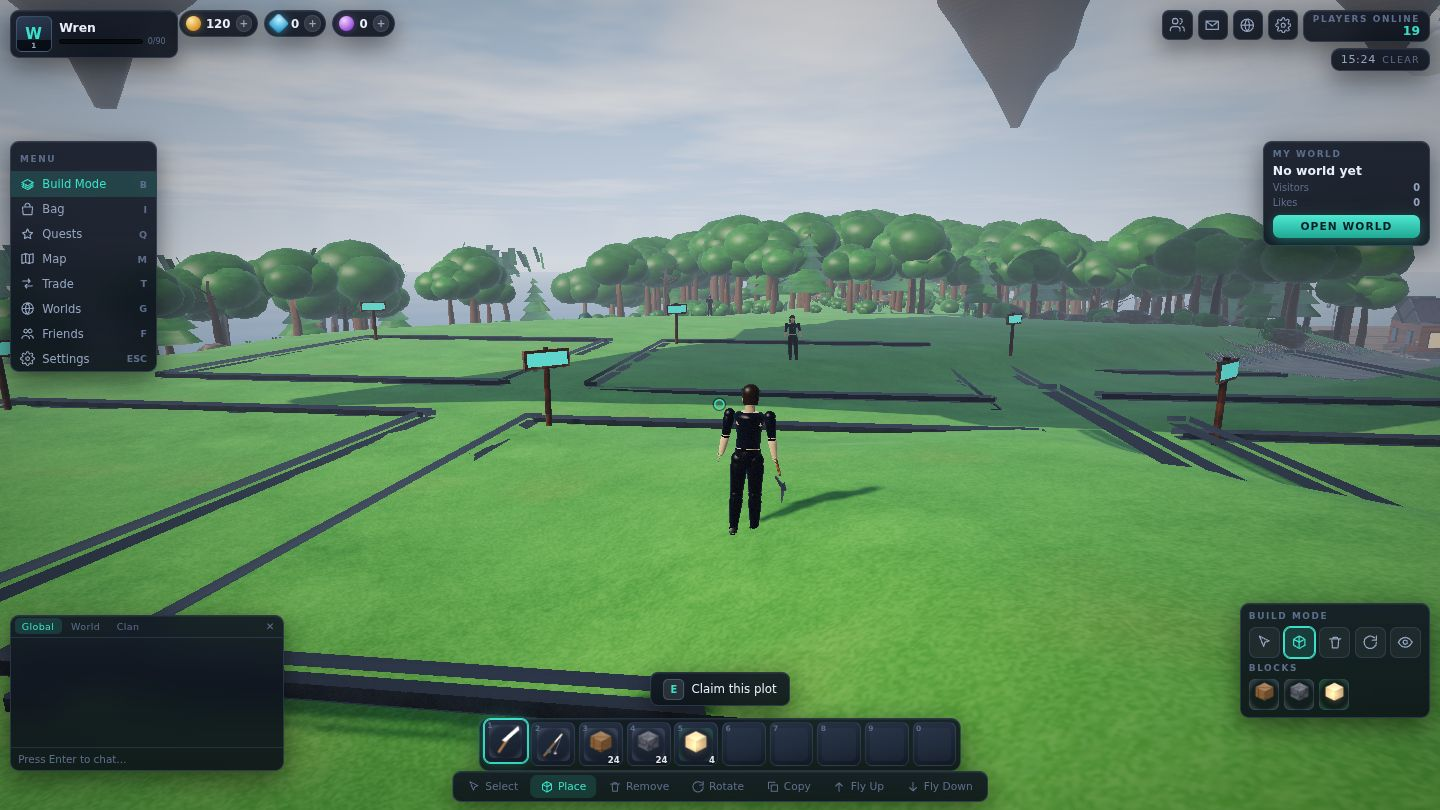
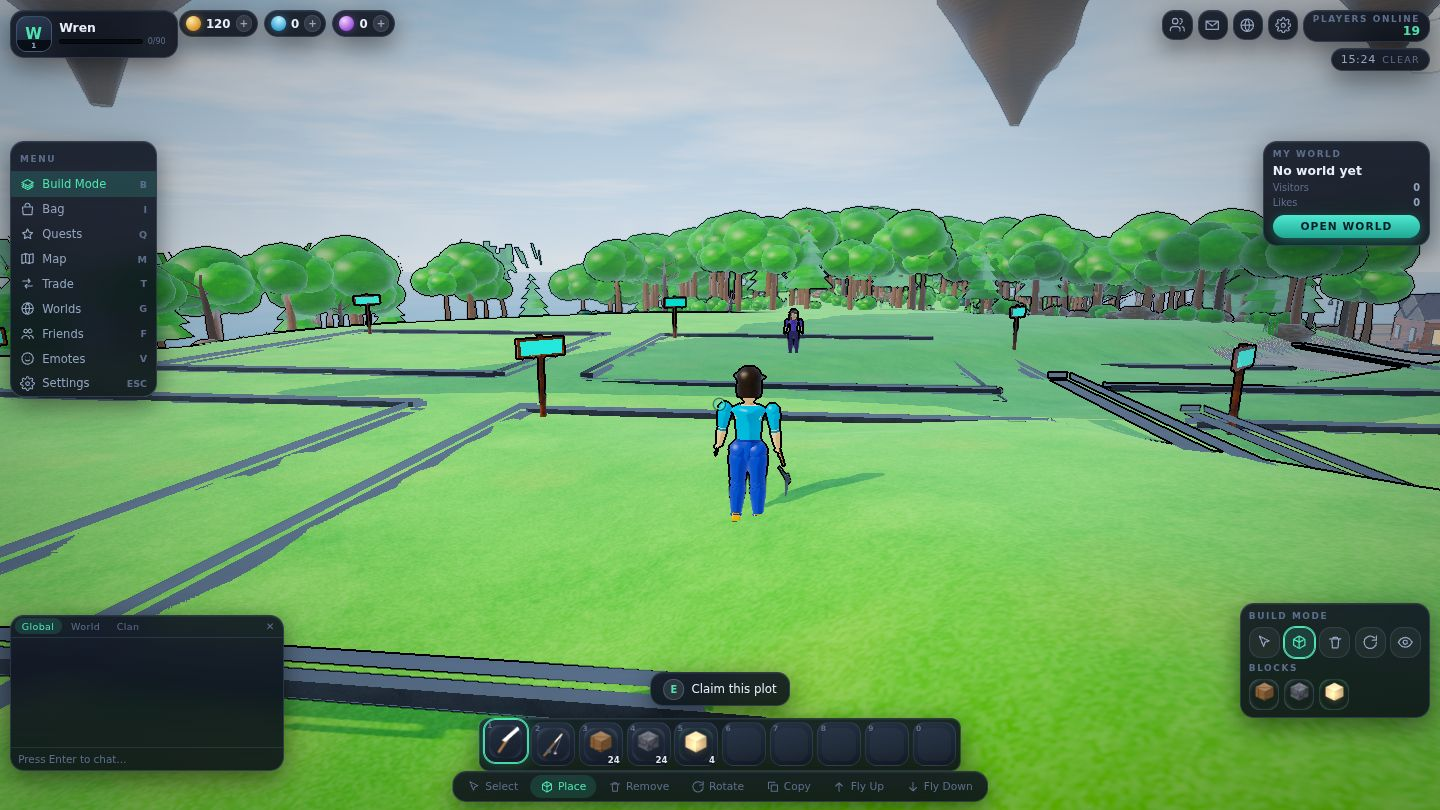
Reshoot the site for the cartoon look, and document it
Every screenshot on the landing page is recaptured from the current
build, plus a new one of the emote wheel. The page picks up the game's
own rounded typefaces and warmer accents so the two do not read as
different products, and the "0 downloaded assets" stat is now "0 mesh
or texture files" — two fonts arrive over the network and the page
should not claim otherwise.

The README gains a section on the art direction: what each of the three
dials does, why proportions live in one table, and why no mesh pack was
pulled in. Mixing bought low-poly models into a world where every
vertex is generated at load is the fastest way to make a game look like
an asset flip; the loader and the file size would both be real costs
for a worse-looking result.

Also: the emote wheel's hub carries its own radial backing, because it
sits directly over whoever is standing in the middle of it.

diff --git a/site/index.html b/site/index.html
@@ -7,7 +7,7 @@
 <meta name="description" content="A 3D social sandbox MMO. Claim an island, build what you like, and let people in.">
 <link rel="preconnect" href="https://fonts.googleapis.com">
 <link rel="preconnect" href="https://fonts.gstatic.com" crossorigin>
-<link href="https://fonts.googleapis.com/css2?family=Chakra+Petch:wght@400;500;600;700&family=Rajdhani:wght@500;600;700&display=swap" rel="stylesheet">
+<link href="https://fonts.googleapis.com/css2?family=Fredoka:wght@400;500;600;700&family=Nunito:wght@400;600;700;800&display=swap" rel="stylesheet">
 <style>
 :root{
   --bg:#080B12;
@@ -19,12 +19,12 @@
   --ink:#E8EFFA;
   --ink2:#93A4C0;
   --ink3:#5D6E8C;
-  --acc:#3BE0C8;
-  --acc2:#159C89;
-  --gold:#F5C451;
+  --acc:#4FE3B0;
+  --acc2:#17A886;
+  --gold:#FFC94D;
   --violet:#7C6BFF;
-  --ui:'Chakra Petch','Segoe UI',system-ui,sans-serif;
-  --disp:'Rajdhani','Chakra Petch',system-ui,sans-serif;
+  --ui:'Nunito','Segoe UI',system-ui,sans-serif;
+  --disp:'Fredoka','Nunito','Segoe UI',system-ui,sans-serif;
   --maxw:1180px;
 }
 *{box-sizing:border-box}
@@ -260,13 +260,13 @@ footer .wrap{display:flex;flex-wrap:wrap;gap:18px;align-items:center;justify-con
       <a class="cta" href="../game/lumen-harbor.html">Play in your browser</a>
       <a class="cta ghost" href="#world">See the world</a>
     </div>
-    <p class="note">Runs in any WebGL2 browser. One file, no install, no download.</p>
+    <p class="note">Runs in any WebGL2 browser. One file, no install, nothing downloaded but two fonts.</p>
 
     <div class="stats">
       <div><b>352 m</b><span>Island, nine districts</span></div>
-      <div><b>17</b><span>Animation clips</span></div>
+      <div><b>20</b><span>Animation clips</span></div>
       <div><b>31</b><span>Procedural materials</span></div>
-      <div><b>0</b><span>Downloaded assets</span></div>
+      <div><b>0</b><span>Mesh or texture files</span></div>
     </div>
   </div>
 </div>
@@ -309,6 +309,15 @@ footer .wrap{display:flex;flex-wrap:wrap;gap:18px;align-items:center;justify-con
           <h3>A day that actually turns</h3>
           <p>One clock drives the sun, the sky, the fog and the lamps. Street
              lights fade up as the sun drops, and shop signs light the pavement.</p>
+        </div>
+      </div>
+      <div class="card">
+        <div class="pic" style="background-image:url('shots/emotes.jpg')"></div>
+        <div class="body">
+          <span class="tag">Say something</span>
+          <h3>Seven ways to answer</h3>
+          <p>Wave, dance, laugh, cheer, clap, point, sit. On <b>V</b>, on the
+             number row, and gone the moment you walk.</p>
         </div>
       </div>
     </div>
@@ -391,8 +400,8 @@ footer .wrap{display:flex;flex-wrap:wrap;gap:18px;align-items:center;justify-con
       <p>Not a roadmap. These are the systems running in the file you can open.</p>
     </div>
     <div class="systems">
-      <div><h5>Renderer</h5><p>WebGL2 from scratch: shadow pass, analytic sky, height fog, water, bloom, sun shafts, sixteen point lights per frame.</p></div>
-      <div><h5>Characters</h5><p>Nineteen bones, seventeen clips written as functions of phase, crossfaded by a priority state machine.</p></div>
+      <div><h5>Renderer</h5><p>WebGL2 from scratch: banded toon light, silhouette ink off a depth pass, analytic sky, water, bloom, sun shafts, sixteen point lights a frame.</p></div>
+      <div><h5>Characters</h5><p>Nineteen bones and twenty clips written as functions of phase, crossfaded by a priority state machine. One table sets the proportions for bones, meshes and clothes at once.</p></div>
       <div><h5>Authority</h5><p>Every economic action goes through a request handler with a private server context. The client never decides what it owns.</p></div>
       <div><h5>Worlds</h5><p>Private realms share the public island's generator, chunking, lighting and collision — a smaller place, not a lesser one.</p></div>
       <div><h5>Progression</h5><p>Levels, skills, daily and weekly missions, a story chain, achievements, titles and collections.</p></div>

diff --git a/game/lumen-harbor.html b/game/lumen-harbor.html
@@ -696,7 +696,11 @@ html,body{height:100%;overflow:hidden;background:var(--bg);color:var(--ink);
 .wheel .em i{position:absolute;top:.3cqw;right:.7cqw;font-style:normal;
   font-size:.58cqw;color:var(--ink3)}
 .wheel .hub{position:absolute;left:50%;top:50%;transform:translate(-50%,-50%);
-  text-align:center;pointer-events:none}
+  text-align:center;pointer-events:none;
+  /* The hub sits over whoever is standing in the middle of it, so it
+     carries its own ground rather than trusting the scene behind. */
+  padding:.7cqw 1.4cqw;border-radius:99px;
+  background:radial-gradient(closest-side,rgba(6,9,15,.86),rgba(6,9,15,0))}
 .wheel .hub h4{font-family:var(--disp);font-size:1.3cqw;letter-spacing:.18em;
   text-transform:uppercase;color:var(--ink)}
 .wheel .hub p{font-size:.68cqw;color:var(--ink3);margin-top:.3cqw}

diff --git a/README.md b/README.md
@@ -34,7 +34,7 @@ portable if that decision ever changes.
 | `LH.GL` | WebGL2 device: program introspection at build time, VAOs, instancing, hardware-compare shadow maps, sRGB 2D array textures |
 | `LH.Geo` | Procedural geometry behind a transform stack — boxes, chamfers, lofts, limbs, extrusions, discs — so a prop is written the way you'd describe it out loud |
 | `LH.Tex` | Thirty-one materials painted per-pixel into one texture array, so the whole world draws with a single texture bound |
-| `LH.Render` | Forward renderer: shadow pass, analytic sky with clouds and stars, wrapped-diffuse sun, hemisphere ambient, sixteen point lights a frame, height fog, animated water with a depth-tinted shoreline, bloom, sun shafts, filmic tonemap |
+| `LH.Render` | Forward renderer: shadow pass, analytic sky with clouds and stars, banded toon lighting, silhouette ink, hemisphere ambient, sixteen point lights a frame, height fog, animated water with a depth-tinted shoreline, bloom, sun shafts, filmic tonemap |
 | `LH.Rig` | Nineteen bones and seventeen animation clips, written as functions of phase rather than keyframe tables |
 | `LH.Voxels` | Sparse one-metre build layer, meshed per 16-cube chunk with interior faces culled |
 | `LH.Net` | The authority boundary |
@@ -97,6 +97,38 @@ dispatcher for a WebSocket is a transport change, not a rewrite.
 Open `game/lumen-harbor.html` directly, or serve the folder. Needs WebGL2.
 The game is landscape-only; in portrait it keeps the landscape layout and
 asks you to turn the device.
+
+### The look
+
+The register is Growtopia and Club Penguin: bright, chunky, drawn. Three
+dials in `LH.Render.scene` carry it, and setting all three to zero
+restores the stylized-realism look exactly, which is what makes this an
+art direction rather than a rewrite.
+
+| Dial | What it does |
+| --- | --- |
+| `toon` | Quantises diffuse *and* shadow into three bands with soft shoulders. Both, because a soft shadow gradient beside a hard terminator on one surface reads as a bug rather than a style |
+| `outline` | Inks silhouettes from a depth texture, keyed on the second derivative of depth — a floor at a grazing angle has a huge depth gradient but no curvature, so it does not outline itself. Line weight is in pixels, and the ink fades with distance because a forest inked at full strength is a field of scribble |
+| `saturation` | A straight chroma push after the tonemap |
+
+Proportions come from one table in `LH.Rig`, read by the skeleton, the
+limb meshes, the limb thickness, the head scale and the clothes over
+them — about four and a half heads tall rather than seven and a half.
+A sleeve length derived from the arm bone cannot end up longer than the
+arm inside it.
+
+Emotes are on **V**: a wheel with wave, dance, laugh, cheer, clap, point
+and sit. The number row picks from the wheel while it is open and drives
+the hotbar while it is not, and a looping emote yields the moment you
+move.
+
+The two typefaces are the only downloaded asset in the project: Fredoka
+and Nunito, from Google Fonts, both with real fallbacks so the game
+still looks deliberate with the network off. Nothing else is fetched —
+no mesh packs, no texture packs. Mixing bought low-poly models into a
+world where every vertex is generated at load is the fastest way to make
+a game look like an asset flip, and the loader and the file size would
+both be real costs for a worse result.
 
 ### The sky
 
